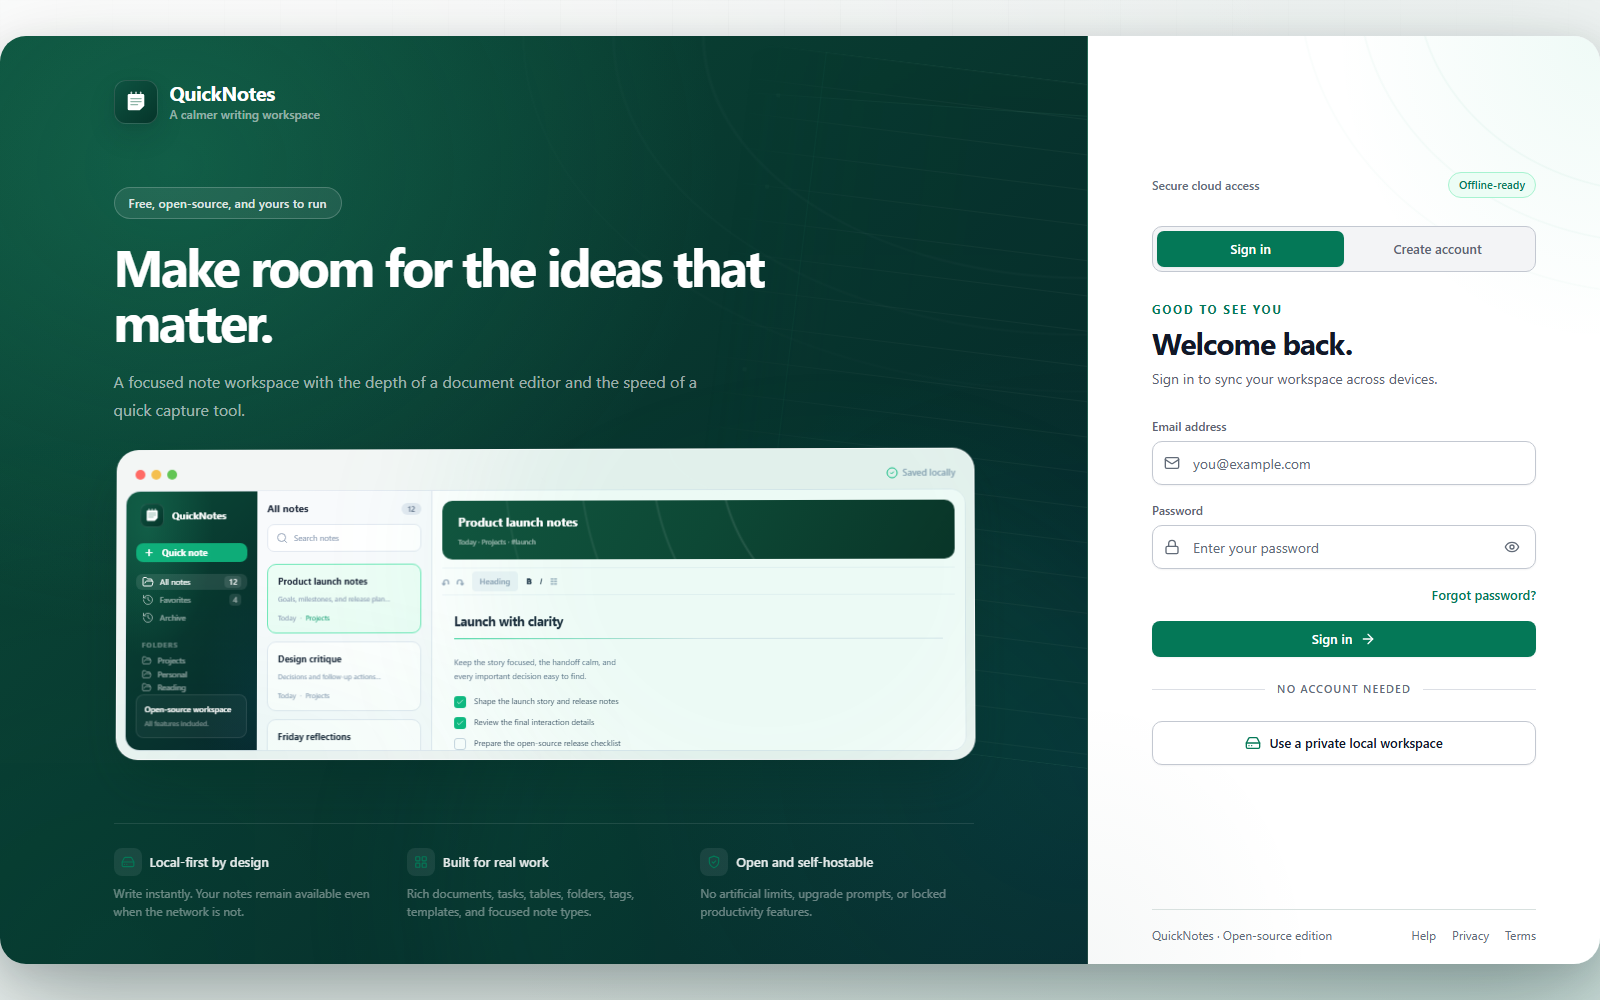
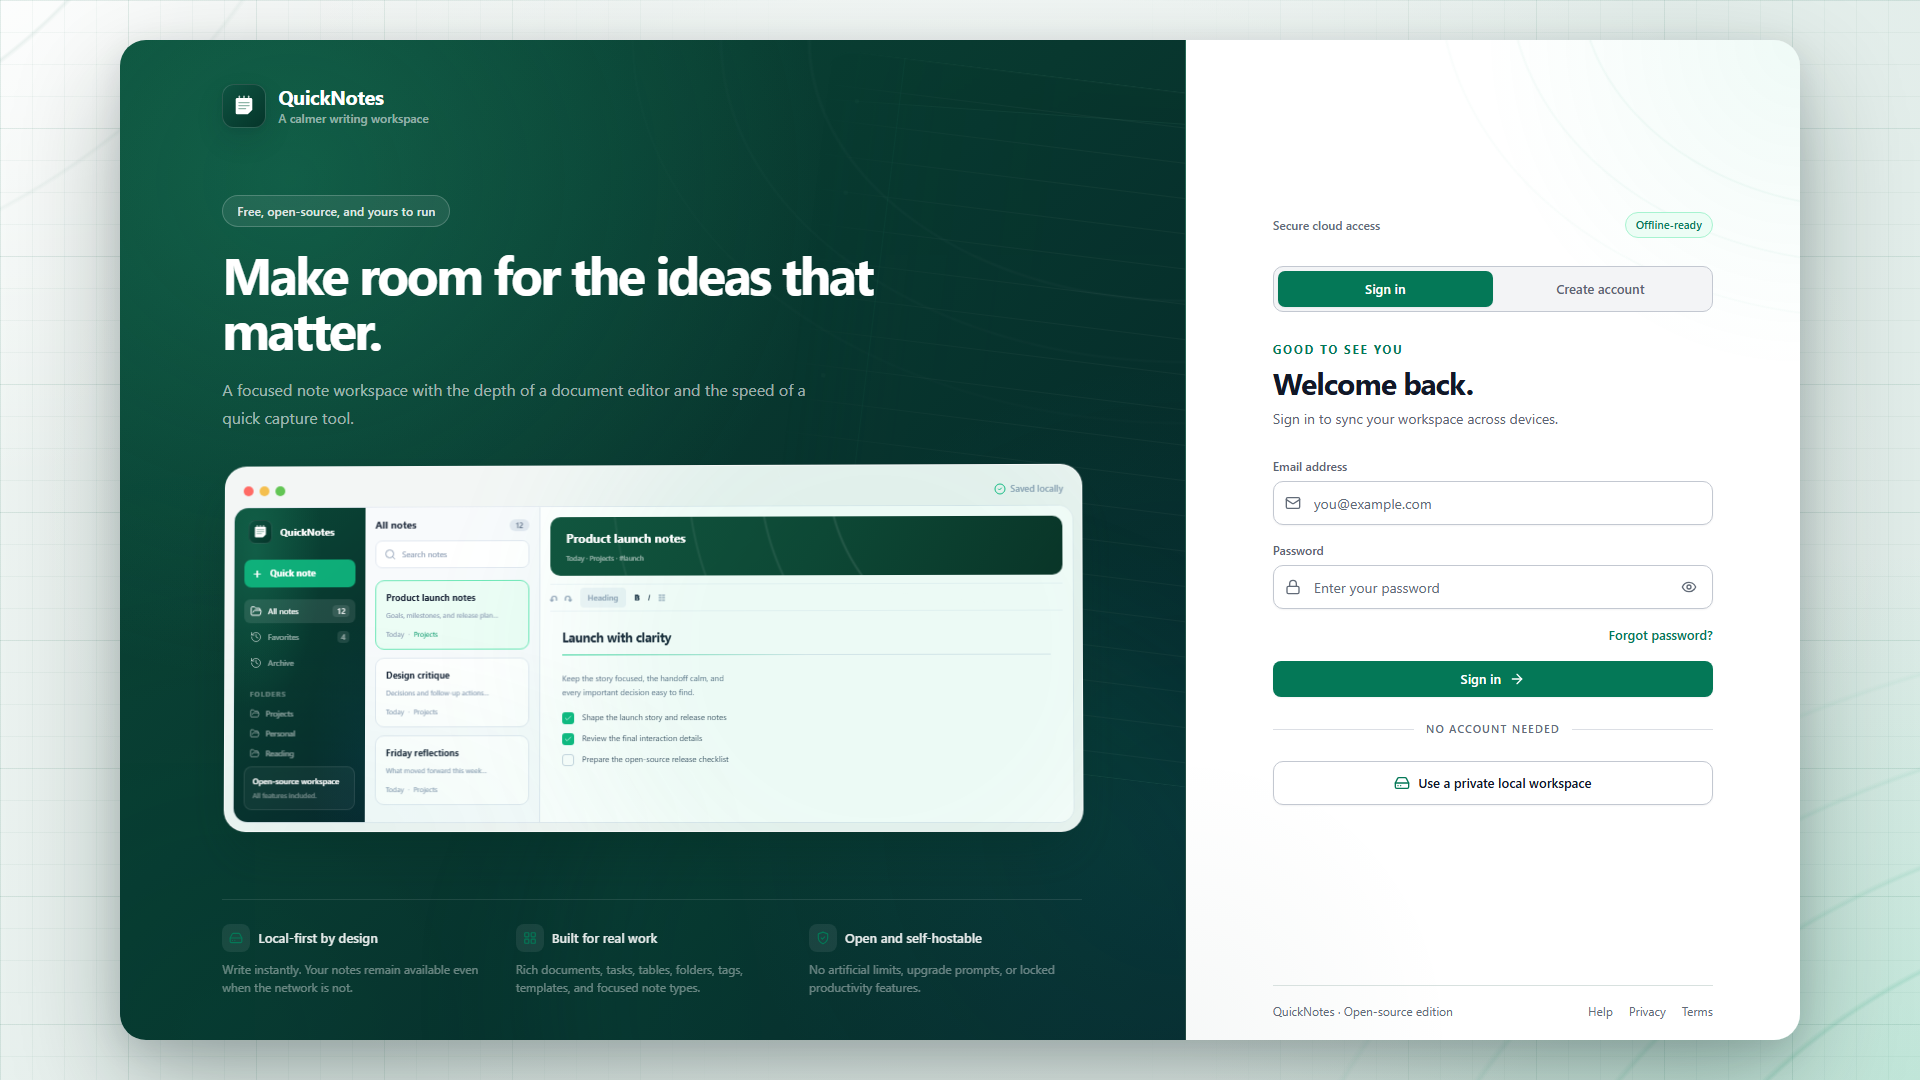
fix: redesign the outer authentication canvas
- Replace the barely visible outer gradient with an intentional mint drafting-paper surface.
- Add visible major and minor green grid lines that fade toward the centered app frame.
- Layer broad static contour waves across the exposed outer margins in light and dark modes.
- Refresh the startup screenshot at a viewport that shows the corrected canvas treatment.

diff --git a/src/index.css b/src/index.css
@@ -595,33 +595,138 @@ input[type="datetime-local"]:not([class*="opacity-0"]):focus {
 }
 
 .qn-auth-page {
-  background: transparent;
+  background-color: #e4eeeb;
+  background-image:
+    radial-gradient(
+      ellipse 62% 86% at 50% 46%,
+      rgba(255, 255, 255, 0.98) 0%,
+      rgba(249, 252, 251, 0.82) 42%,
+      rgba(249, 252, 251, 0) 78%
+    ),
+    radial-gradient(ellipse 52% 68% at 100% 100%, rgba(52, 211, 153, 0.17) 0%, transparent 72%),
+    radial-gradient(ellipse 46% 62% at 0% 0%, rgba(255, 255, 255, 0.82) 0%, transparent 72%),
+    linear-gradient(138deg, #f0f5f3 0%, #e5efec 52%, #dce9e5 100%);
   isolation: isolate;
 }
 
-/* A quiet architectural grid gives the authentication canvas some structure
-   without competing with the form. It is intentionally strongest around the
-   outer frame, where the shared app canvas is visible on large displays. */
+/* A drafting-paper grid makes the large outer authentication canvas feel
+   intentional on wide displays. The mask keeps it strongest in the exposed
+   margins and fades it before it can compete with the centered app frame. */
 .qn-auth-page::before {
   content: '';
   position: absolute;
   z-index: 0;
   inset: 0;
   pointer-events: none;
-  opacity: 0.58;
   background-image:
-    linear-gradient(rgba(8, 61, 49, 0.035) 1px, transparent 1px),
-    linear-gradient(90deg, rgba(8, 61, 49, 0.035) 1px, transparent 1px);
-  background-size: 56px 56px;
-  -webkit-mask-image: radial-gradient(ellipse 90% 82% at 50% 18%, #000 0%, transparent 76%);
-  mask-image: radial-gradient(ellipse 90% 82% at 50% 18%, #000 0%, transparent 76%);
+    linear-gradient(rgba(6, 95, 70, 0.04) 1px, transparent 1px),
+    linear-gradient(90deg, rgba(6, 95, 70, 0.04) 1px, transparent 1px),
+    linear-gradient(rgba(6, 95, 70, 0.07) 1px, transparent 1px),
+    linear-gradient(90deg, rgba(6, 95, 70, 0.07) 1px, transparent 1px);
+  background-size: 32px 32px, 32px 32px, 128px 128px, 128px 128px;
+  -webkit-mask-image: linear-gradient(
+    90deg,
+    #000 0%,
+    rgba(0, 0, 0, 0.72) 22%,
+    transparent 42%,
+    transparent 58%,
+    rgba(0, 0, 0, 0.72) 78%,
+    #000 100%
+  );
+  mask-image: linear-gradient(
+    90deg,
+    #000 0%,
+    rgba(0, 0, 0, 0.72) 22%,
+    transparent 42%,
+    transparent 58%,
+    rgba(0, 0, 0, 0.72) 78%,
+    #000 100%
+  );
+}
+
+/* Broad static contour waves echo the note-sheet line work inside the hero.
+   Their contrast is deliberately below the grid so they read as atmosphere,
+   not as content or an interactive affordance. */
+.qn-auth-page::after {
+  content: '';
+  position: absolute;
+  z-index: 0;
+  inset: -12%;
+  pointer-events: none;
+  background-image:
+    radial-gradient(
+      ellipse 58% 72% at 108% 112%,
+      transparent 51%,
+      rgba(5, 150, 105, 0.12) 51.3%,
+      transparent 51.7%,
+      transparent 60%,
+      rgba(5, 150, 105, 0.09) 60.3%,
+      transparent 60.7%,
+      transparent 69%,
+      rgba(5, 150, 105, 0.065) 69.3%,
+      transparent 69.7%,
+      transparent 78%,
+      rgba(5, 150, 105, 0.045) 78.3%,
+      transparent 78.7%
+    ),
+    radial-gradient(
+      ellipse 44% 62% at -8% -12%,
+      transparent 58%,
+      rgba(6, 95, 70, 0.07) 58.3%,
+      transparent 58.7%,
+      transparent 72%,
+      rgba(6, 95, 70, 0.045) 72.3%,
+      transparent 72.7%
+    );
+}
+
+.dark .qn-auth-page {
+  background-color: #0c1415;
+  background-image:
+    radial-gradient(
+      ellipse 62% 86% at 50% 46%,
+      rgba(25, 36, 38, 0.92) 0%,
+      rgba(17, 27, 29, 0.72) 44%,
+      rgba(17, 27, 29, 0) 78%
+    ),
+    radial-gradient(ellipse 52% 68% at 100% 100%, rgba(16, 185, 129, 0.13) 0%, transparent 72%),
+    linear-gradient(138deg, #151d20 0%, #0e1718 52%, #081011 100%);
 }
 
 .dark .qn-auth-page::before {
-  opacity: 0.42;
   background-image:
-    linear-gradient(rgba(167, 243, 208, 0.045) 1px, transparent 1px),
-    linear-gradient(90deg, rgba(167, 243, 208, 0.045) 1px, transparent 1px);
+    linear-gradient(rgba(167, 243, 208, 0.03) 1px, transparent 1px),
+    linear-gradient(90deg, rgba(167, 243, 208, 0.03) 1px, transparent 1px),
+    linear-gradient(rgba(167, 243, 208, 0.05) 1px, transparent 1px),
+    linear-gradient(90deg, rgba(167, 243, 208, 0.05) 1px, transparent 1px);
+}
+
+.dark .qn-auth-page::after {
+  background-image:
+    radial-gradient(
+      ellipse 58% 72% at 108% 112%,
+      transparent 51%,
+      rgba(52, 211, 153, 0.11) 51.3%,
+      transparent 51.7%,
+      transparent 60%,
+      rgba(52, 211, 153, 0.08) 60.3%,
+      transparent 60.7%,
+      transparent 69%,
+      rgba(52, 211, 153, 0.055) 69.3%,
+      transparent 69.7%,
+      transparent 78%,
+      rgba(52, 211, 153, 0.035) 78.3%,
+      transparent 78.7%
+    ),
+    radial-gradient(
+      ellipse 44% 62% at -8% -12%,
+      transparent 58%,
+      rgba(167, 243, 208, 0.055) 58.3%,
+      transparent 58.7%,
+      transparent 72%,
+      rgba(167, 243, 208, 0.035) 72.3%,
+      transparent 72.7%
+    );
 }
 
 .qn-auth-frame {
